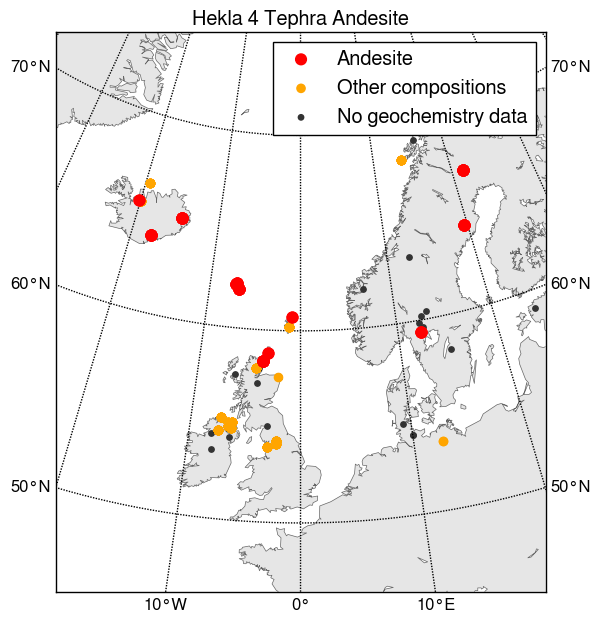
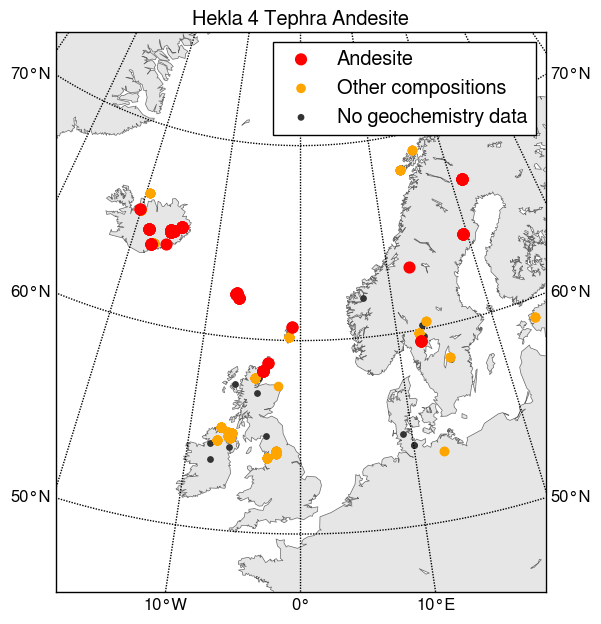
Added data from Oladottir and Wastegard.  Moved map centre slightly north.

diff --git a/plot_hekla3and4_distal_geochemistry.py b/plot_hekla3and4_distal_geochemistry.py
@@ -110,11 +110,11 @@ def prepare_basemap():
     # lat_2 is second standard parallel (defaults to lat_1).
     # lon_0,lat_0 is central point.
     # rsphere=(6378137.00,6356752.3142) specifies WGS84 ellipsoid
-    # area_thresh=1000 means don't plot coastline features less
+    # area_thresh=300 means don't plot coastline features less
     # than 300 km^2 in area.
     m = Basemap(width=2.8e6, height=3.2e6, rsphere=(6378137.00, 6356752.3142),
                 resolution='l', projection='lcc', area_thresh=300,
-                lat_1=45, lat_2=65, lat_0=61, lon_0=0)
+                lat_1=50, lat_2=66, lat_0=61.5, lon_0=0)
     m.drawcoastlines(linewidth=0.5, color='0.4')
     m.fillcontinents(color=[0.9, 0.9, 0.9], zorder=0)
     m.drawparallels(np.arange(-30, 81, 10.), labels=[1, 1, 0, 0])
